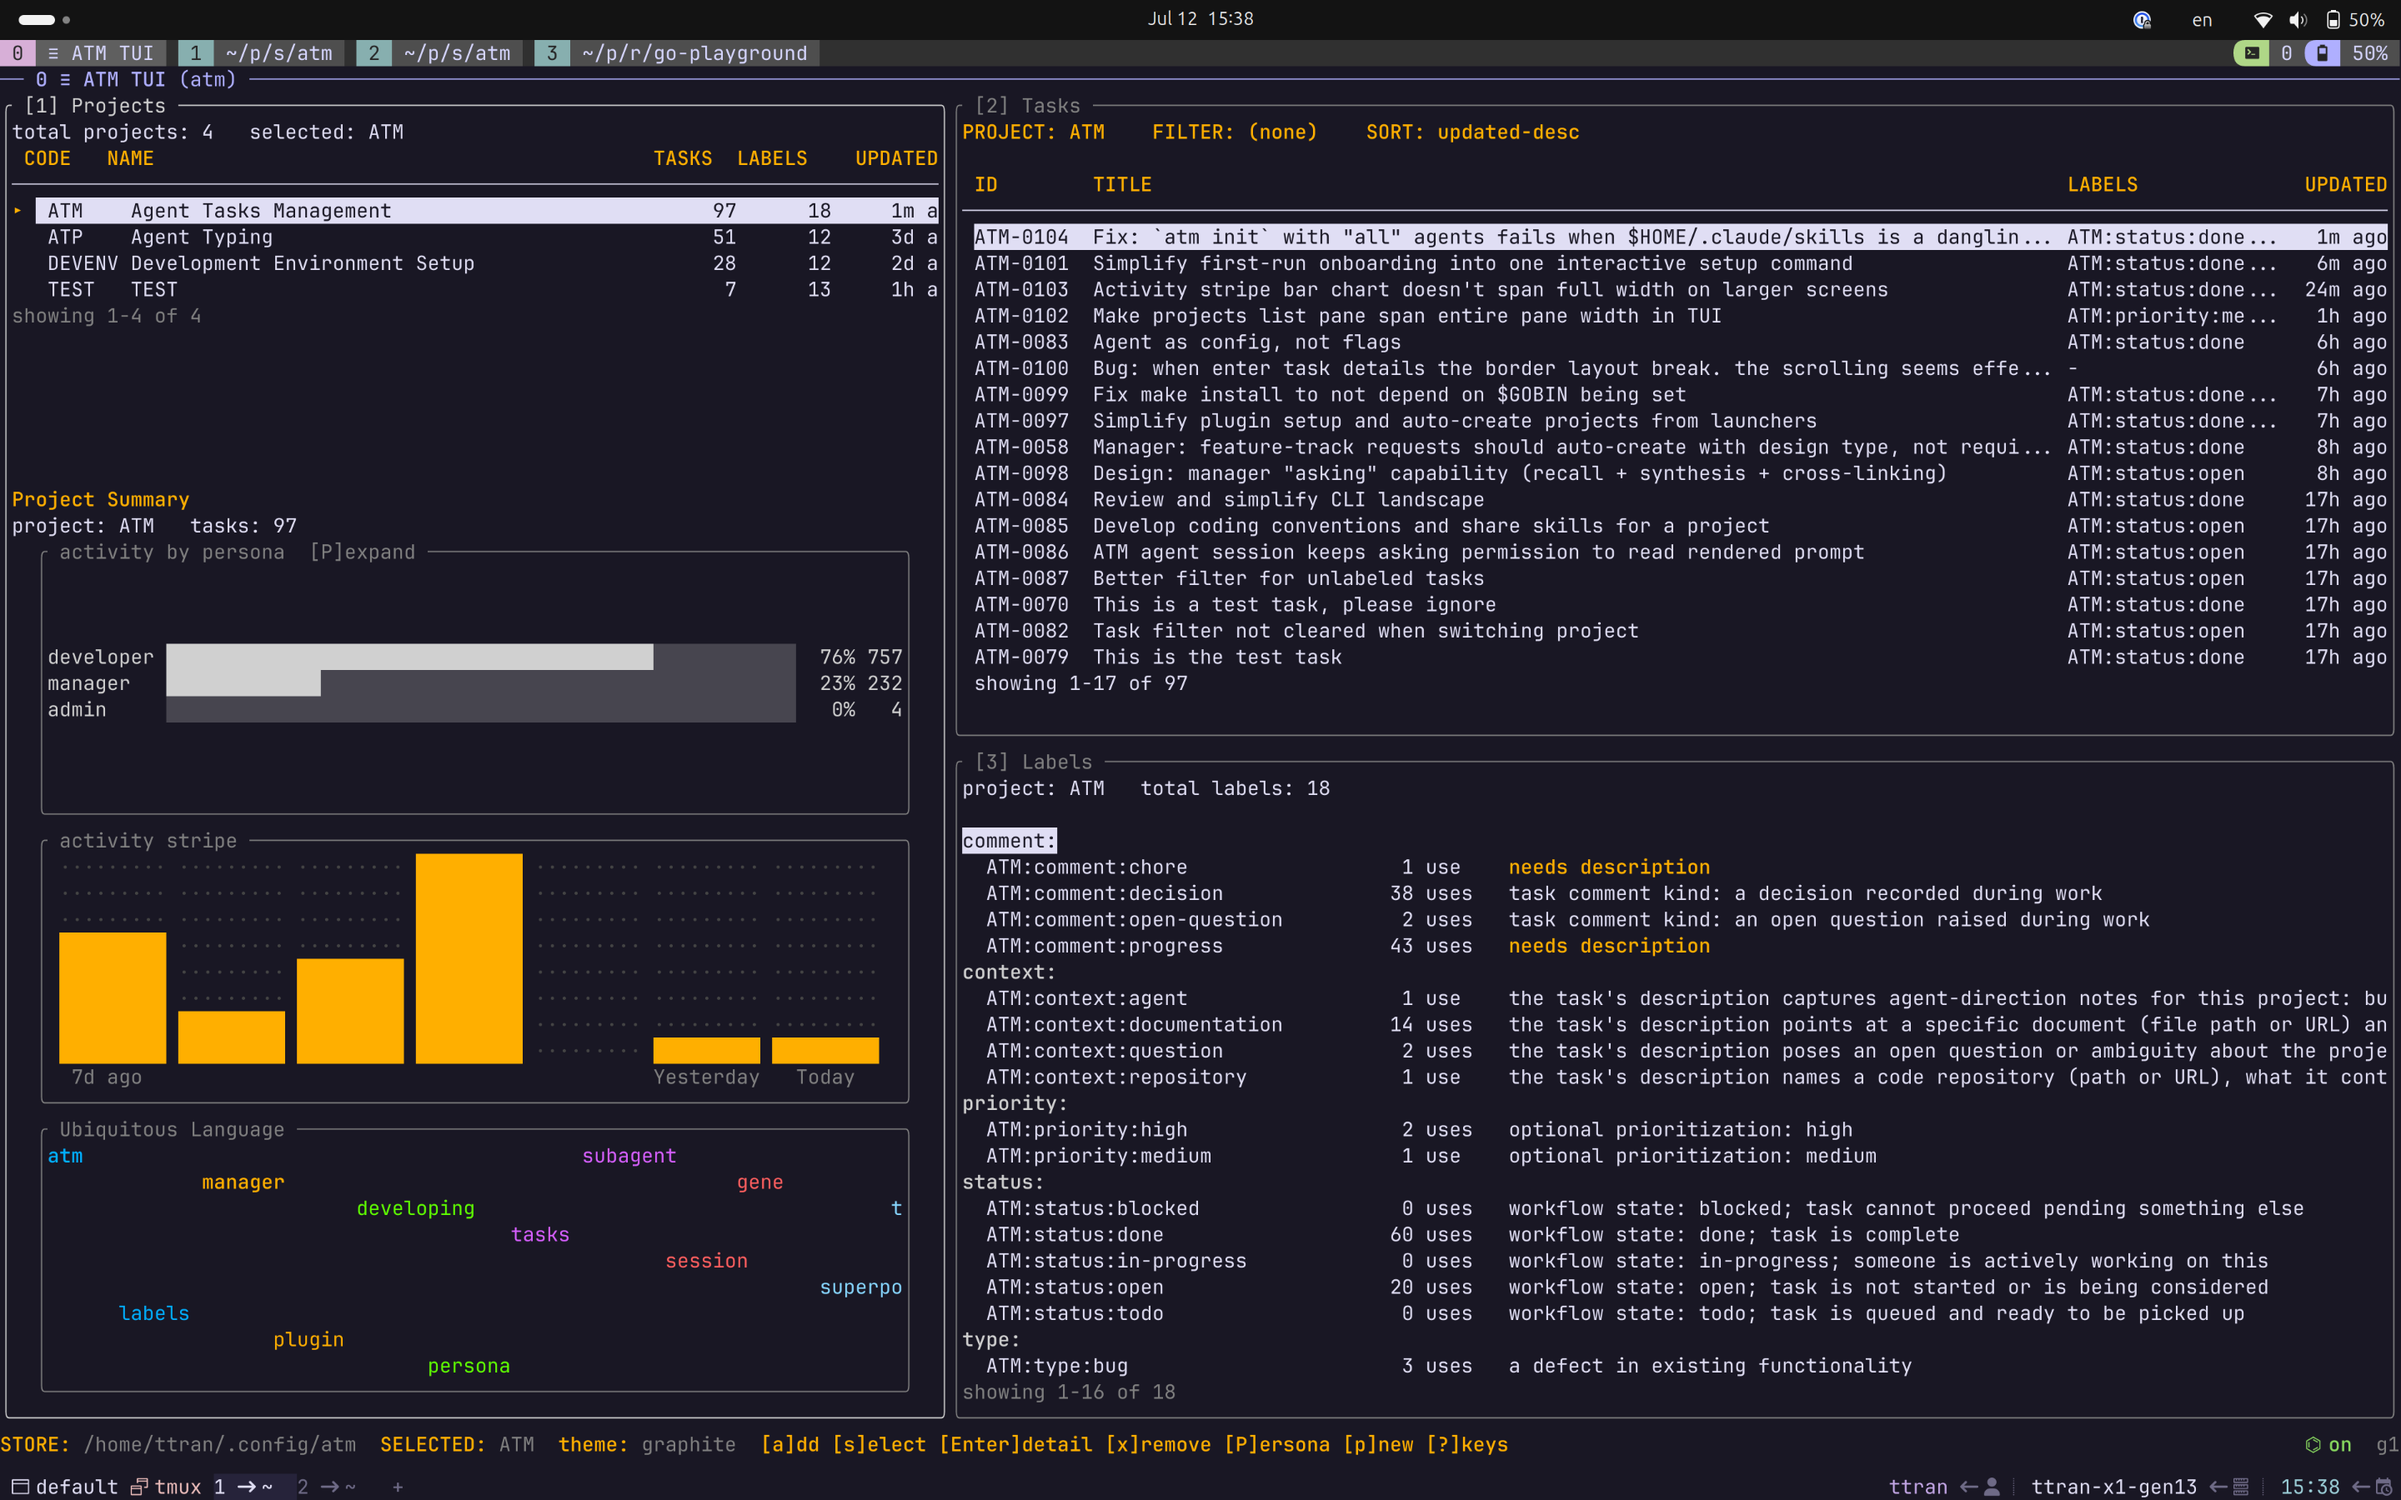
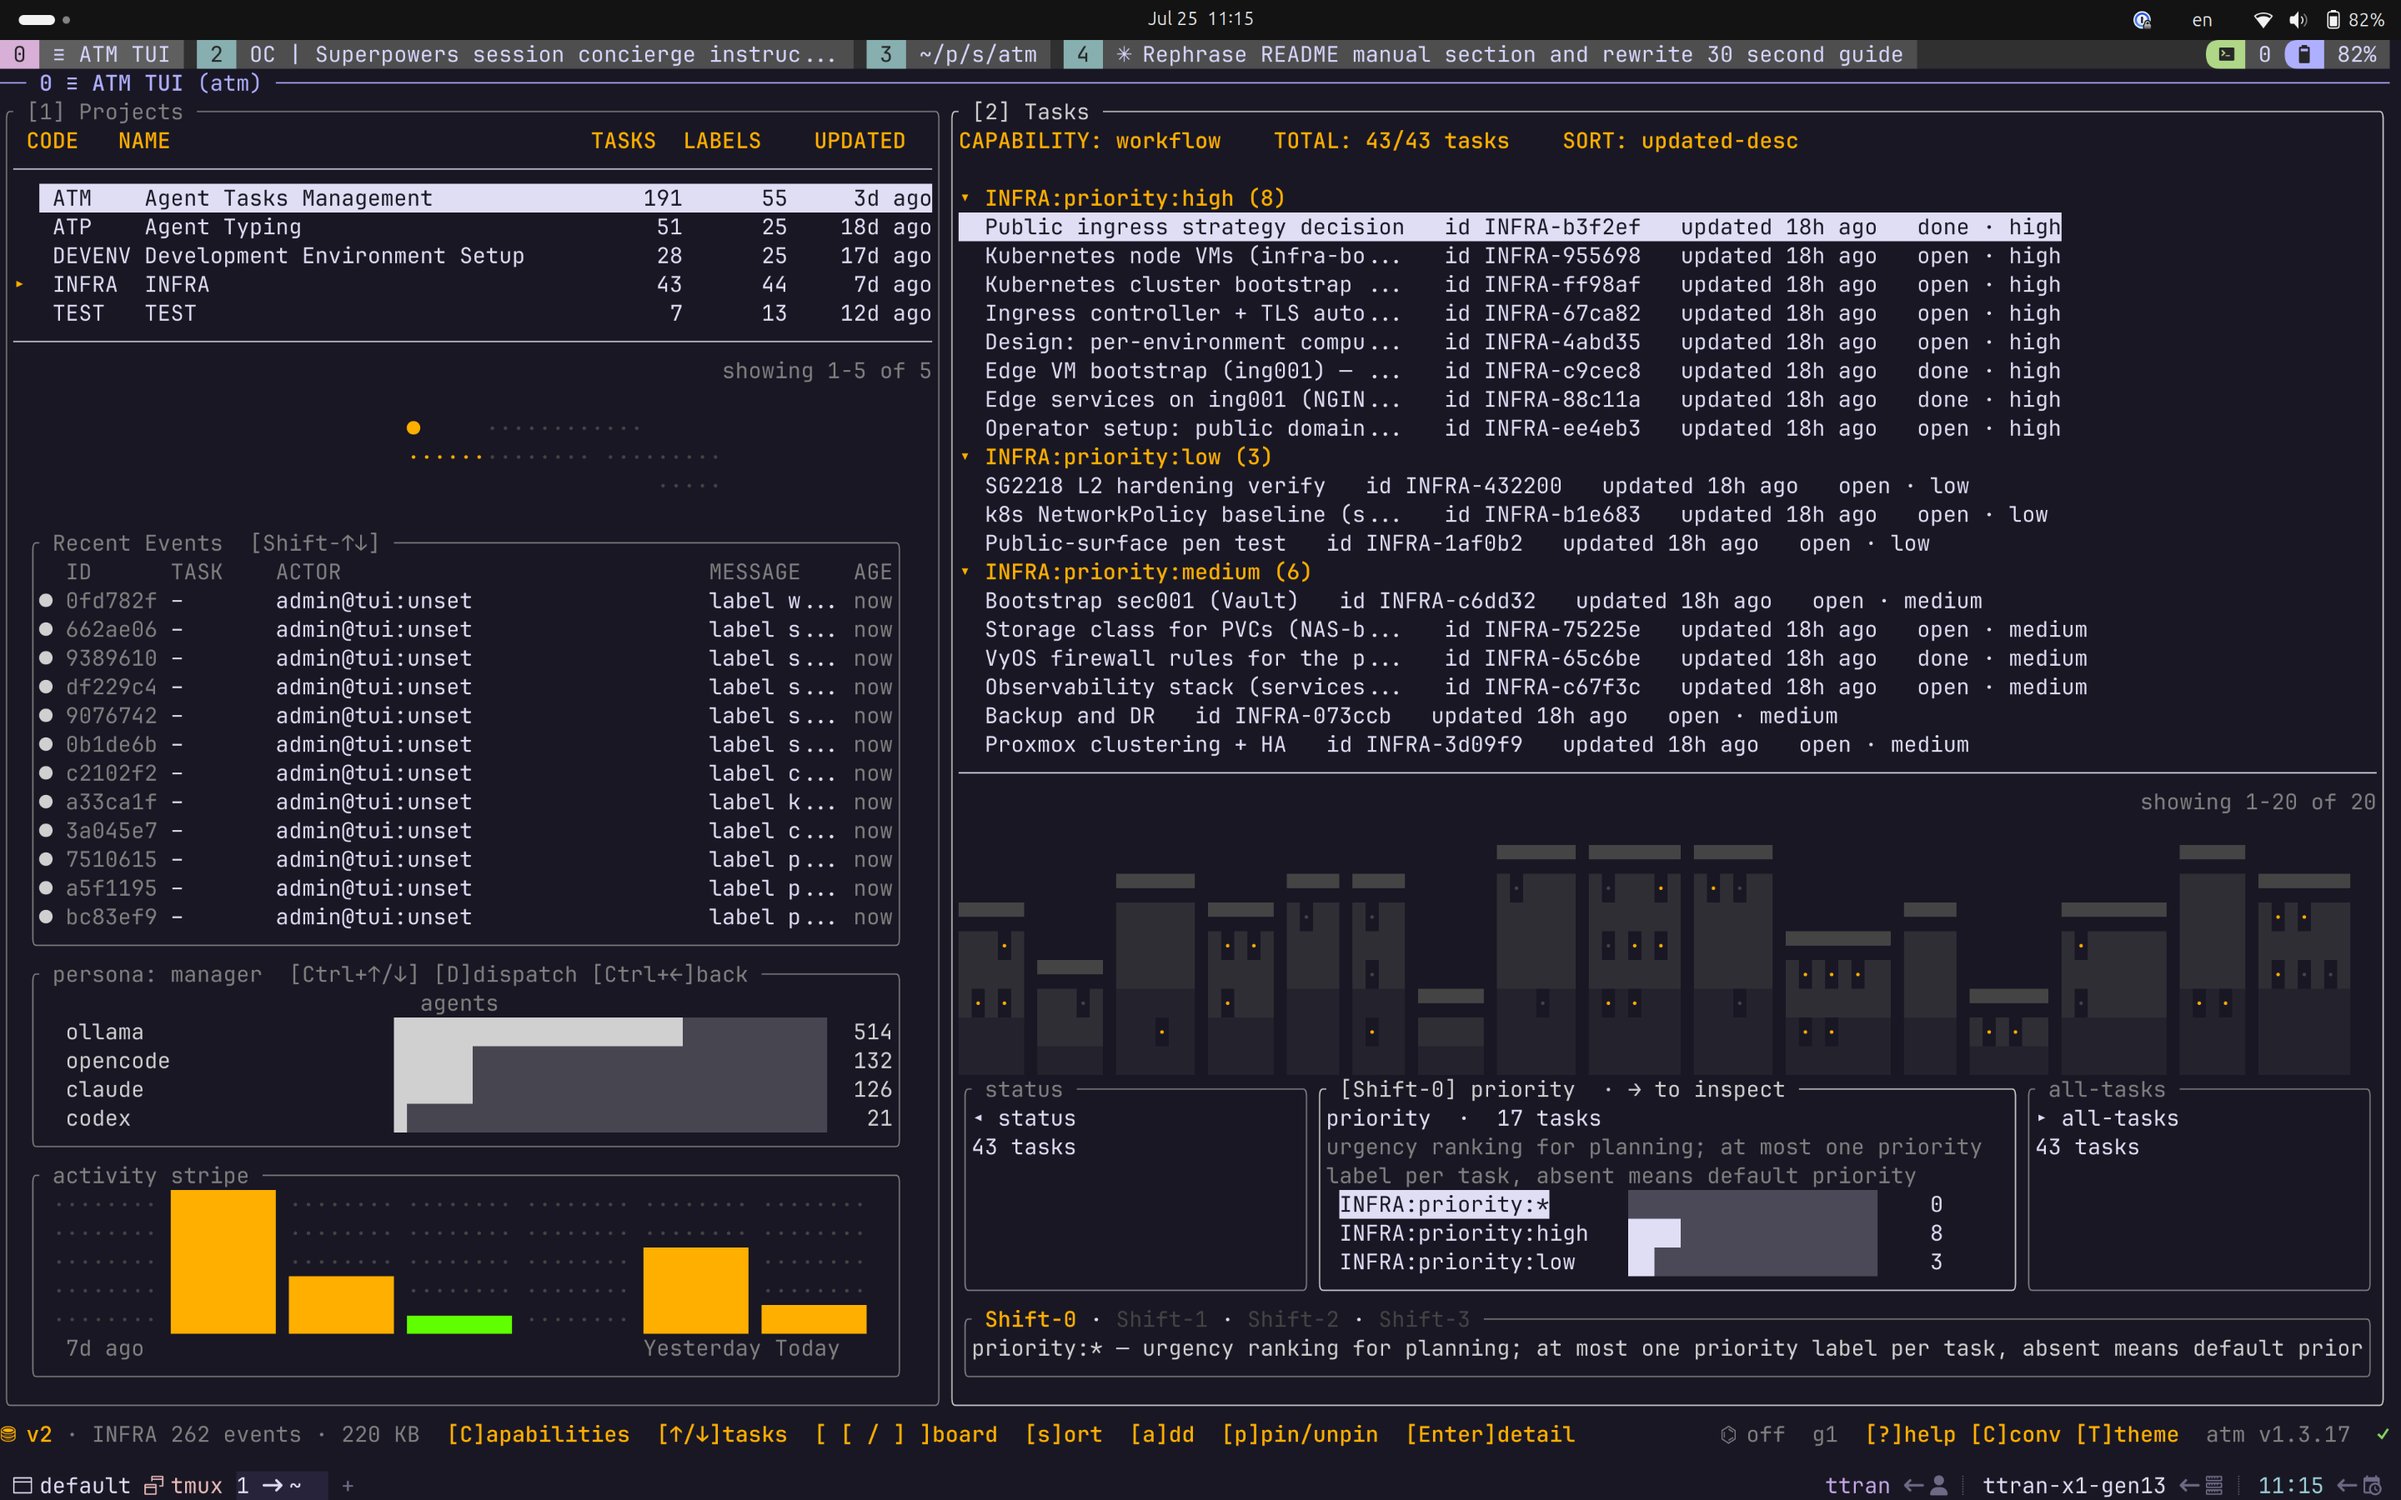
UPDATE README

Changed region(s): [[0.0, 0.0, 1.0, 1.0], [0.5312, 0.56, 0.5938, 0.5911]]

diff --git a/README.md b/README.md
@@ -2,6 +2,19 @@
 
 ATM is a fast, scalable, distributed task ledger — git-like in how it stores truth, Jira-like in how it tells the story — built as the main interface through which coding agents keep a software organization's knowledge base.
 
+## Why I Build This
+
+These days I spend most of my time in terminals navigating AI agents. I write less code and spend more time managing and sharing my ideas and intentions. As a long-time lover of tools like nvim, tmux, and lazygit, I built a TUI that acts as a command center: I drop in my ideas, and a team of agents helps me organize, brainstorm, challenge, and dispatch to get the jobs done for me:
+
+- I can switch between projects and repositories in seconds and dispatch a manager agent to brief me on where things stand and what comes next.
+- I can share one coding agent's progress and context with others — challenge one agent's output with another, hand off mid-conversation, or route each task to the agent that fits it best (Claude is slow on most tasks but very good at planning, for example).
+- I can work with different types of agents — `claude`, `codex`, `opencode`, or ollama-driven variants running local models — all launched the same way, picked per dispatch: plan with one, implement with another, keep cheap local models on the grunt work. The ledger, not the agent, holds the context, so switching costs nothing.
+- I can dispatch a coding agent onto a selected task without explaining the context again. The agents are also instrumental in keeping the discipline: journal as you code, and orient on the latest state of the world before generating anything.
+- I can dispatch a manager agent to proactively organize the knowledge tracked in the ledger and keep it consistent, so that over time my agents and I stay synced on the same brain.
+- I can (creatively) add personas or capabilities to harness my process further, because the system at its core is just a single log datastore and two entities — a record and its labels. Every other logic is governed by prompts and carried entirely by agent intelligence.
+
+As for the logs, think of ATM as a git-like tool: you own your logs locally and sync them to a remote host (GitHub, GitLab, ...). Your knowledge stays fully yours, yet you can still learn from (merge) others' and share your own. Where it is unlike git: ATM also tracks your future directions, not just what has already happened in your codebase.
+
 ## 30-Second Start
 
 **1. Install** the `atm` binary:
@@ -16,65 +29,42 @@ Later, upgrade the installed binary in place:
 atm update
 ```
 
-**2. Initialize** the store, install the agent plugins, and record your default agent and args:
+**2. Initialize** once — this creates the store, installs the agent plugins, and checks which host agents (claude, codex, ...) are ready, recording your default agent and args:
 
 ```sh
 atm init                                 # once: store, agent plugins, default agent + args
 ```
 
-**3. Onboard with the concierge.** Run the concierge to set up your first project — it walks you through what ATM can do, learns how you work, and recommends the capabilities that fit:
+**3. Start the TUI** — everything else happens inside it:
 
 ```sh
-atm --persona concierge                  # plain-language onboarding (no project needed)
+atm
 ```
 
-The concierge creates your project, enables the right capabilities, and seeds their vocabulary.
+The whole loop is select-and-dispatch — you pick a row, press `D`, and an agent session does the work:
 
-**4. Daily work.** Open the dashboard to see everything, start dev sessions in repo directories, and run the manager to keep the ledger converged:
-
-```sh
-atm                                       # dashboard: tasks, projects, labels, activity
-
-atm --persona developer --project ATM      # developer session (run inside the working repo)
-atm --persona developer --project ATM --agent claude
-
-atm --persona manager --project ATM        # converge all enabled capabilities across the backlog
-```
-
-## The Story
-
-### What You Can Try Today
-
-- Work across multiple projects at once, including projects that span several repositories.
-- Switch coding agents freely to manage cost, context, and tokens — the ledger, not the agent, holds the state.
-- Resume or hand off work between agents with minimal re-briefing.
-- Move between machines: the store is an append-only ledger that is portable and shareable by copy.
-- Skip ticket UIs built for human browsing — ask your agents, and they work from the ledger.
-- Keep ideas flowing into the backlog anytime, anywhere, and let the manager groom and plan them later.
-
-### The Grand Vision
-
-Whether the future belongs to AI or to humans, software has to remain soft to stay useful — and it stays soft only while the intent behind it stays legible. Software has always been where an organization accumulates its lessons and scales them, and for decades human engineers kept that knowledge base alive with more than languages and IDEs: git preserved every decision as history, while Jira boards and a sprawl of docs carried the narrative of where the system goes next. A senior engineer often works those tools more than they write code.
-
-Agentic coding has changed the interface between the developer and the software. You rarely write your own PRs or commits, you no longer read the tracker line by line, and you juggle more worktrees than you ever imagined — you manage intentions more than you manage code. Git honestly tells you the current truth and the whole history behind it, but not the road ahead. The road ahead lives in Jira, Notion, Quip, Google Docs — mutable surfaces where every edit overwrites the last, keeping the current plan but losing the growth, the decisions, and the awareness that produced it. Putting an MCP server in front of them gives agents access, not a fit.
-
-As the world turns agentic, your main working interface becomes a single terminal where you talk to your own agents — and agents forget. Sessions end, context windows die, models get swapped for cost; the knowledge has to survive all of it. So ATM gives your intentions the storage discipline git gave your code: an append-only, plain-file, mergeable ledger that agents journal into as they work, recall from when they return, and hand off through when they change — and the one window through which you stay oriented while they do the writing.
-
-ATM replaces none of those tools — it is the hub beneath them. The same append-only design that lets replicas of the ledger converge through a shared folder or a git remote lets adapters mirror it out to a Jira board, a Notion page, a doc your manager actually reads — and contribute knowledge back in to enrich them. Those surfaces stay what they are good at: views for humans. The ledger stays what they never were: the memory.
+- **Onboard**: drill into the persona chart (`Ctrl+↑/↓` to select, `Ctrl+→` to drill) and press `D` on **concierge** — a plain-language onboarding session that creates your project, enables the right capabilities, and seeds their vocabulary.
+- **Autopilot**: from time to time, press `D` in the projects pane to dispatch a **manager** session on the selected project — it grooms the backlog, converges the enabled capabilities, and briefs you on what's next.
+- **Work a task**: select a task and press `D` to dispatch a **developer** session bound to it — no re-explaining the context. Cycle the host agent with `←/→`, the repo to spawn into with `↑/↓`, the spawn target with `t` (herdr pane, tmux window, or terminal tab), then `Enter` launches it.
+- **Explore**: `V` browses personas, `?` lists every keybinding.
 
 ## Screenshots
 
-![ATM dashboard showing projects, tasks, labels, activity, and vocabulary](docs/assets/screenshots/atm-dashboard.png)
+![ATM dashboard showing projects, capability-grouped tasks, boards, recent events, and persona activity](docs/assets/screenshots/atm-dashboard.png)
 
-Dashboard view with project-level activity, task lists, label vocabulary, and recent work density.
+Dashboard view: projects with recent events and persona activity on the left, tasks grouped by the active capability on the right, and the pinned-board strip below.
 
-![ATM persona activity overview](docs/assets/screenshots/atm-persona-activity.png)
+![Developer dispatch dialog with task, repo, agent, and spawn target](docs/assets/screenshots/atm-dispatch-developer.png)
 
-Persona activity overview for seeing how developer, manager, and admin work is distributed.
+Dispatching a developer session bound to the selected task: cycle the host agent, the repo, and the spawn target, then `Enter` launches it.
 
-![ATM persona activity drilldown](docs/assets/screenshots/atm-persona-drilldown.png)
+![Manager dispatch dialog with agent and spawn target](docs/assets/screenshots/atm-dispatch-manager.png)
 
-Persona drilldown with agent, model, and action breakdowns.
+Dispatching a manager session for the selected project.
+
+![ATM persona drilldown showing agent and model breakdowns](docs/assets/screenshots/atm-persona-drilldown.png)
+
+Persona drilldown (here: concierge) with agent, model, and action breakdowns — `D` dispatches a session for the drilled persona.
 
 ## Store
 
@@ -248,18 +238,7 @@ atm --persona developer --project ATM --agent codex -- --yolo
 
 ### Dispatching Sessions From The TUI
 
-The TUI can spawn manager and developer sessions into a separate terminal
-surface (herdr pane → tmux window → new terminal tab, auto-detected in that
-order). From the projects pane, `D` dispatches a **manager** session for the
-selected project; from the tasks pane, `D` dispatches a **developer** session
-bound to the selected task row. The host agent is the interactive field in
-both dialogs (cycle with `←/→`, dispatch with `Enter`); an unready agent is
-refused with its missing-bin hint. The developer dialog adds a second field —
-the **repo** to spawn into (cycle with `↑/↓`), drawn from the project's
-recorded repo dispatch targets (see below); when none are recorded it falls
-back to the TUI's current directory. `V` opens a read-only **personas**
-browser (list built-ins and customs, `Enter` views a persona's effective
-prompt, `Esc` backs out).
+The TUI can spawn manager, developer, concierge, and admin sessions into a separate terminal surface. The spawn target is auto-detected (herdr pane → tmux window → new terminal tab, in that order), and `t` in the dispatch dialog cycles it by hand (`auto`, `herdr`, `tmux`, `terminal`). From the projects pane, `D` dispatches a **manager** session for the selected project — or, when the persona chart is drilled in, a session for the drilled persona (concierge and admin launch without a project). From the tasks pane, `D` dispatches a **developer** session bound to the selected task row. The host agent is an interactive field in every dialog (cycle with `←/→`, dispatch with `Enter`); an unready agent is refused with its missing-bin hint. The developer dialog adds one more field — the **repo** to spawn into (cycle with `↑/↓`), drawn from the project's recorded repo dispatch targets (see below); when none are recorded it falls back to the TUI's current directory. `V` opens a read-only **personas** browser (list built-ins and customs, `Enter` views a persona's effective prompt, `Esc` backs out).
 
 A developer session can equally be handed a task from the shell with the new
 `--task <id>` flag — it is validated against `--project`'s store, exported to
